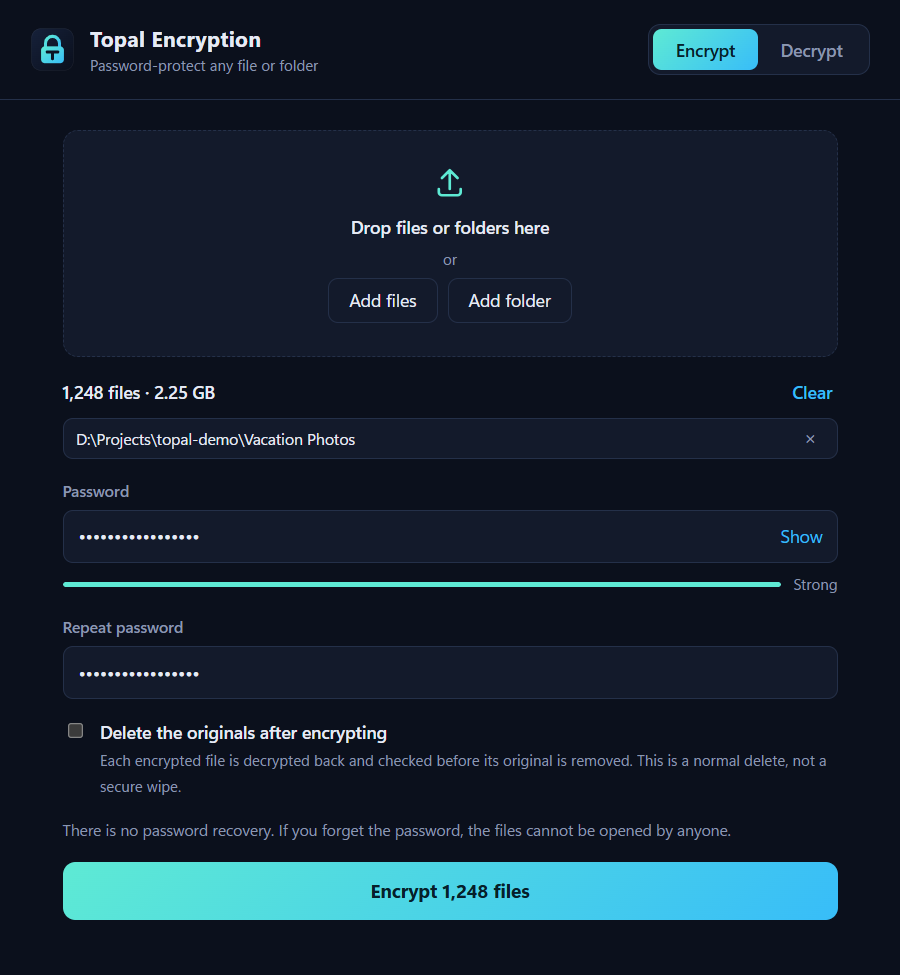
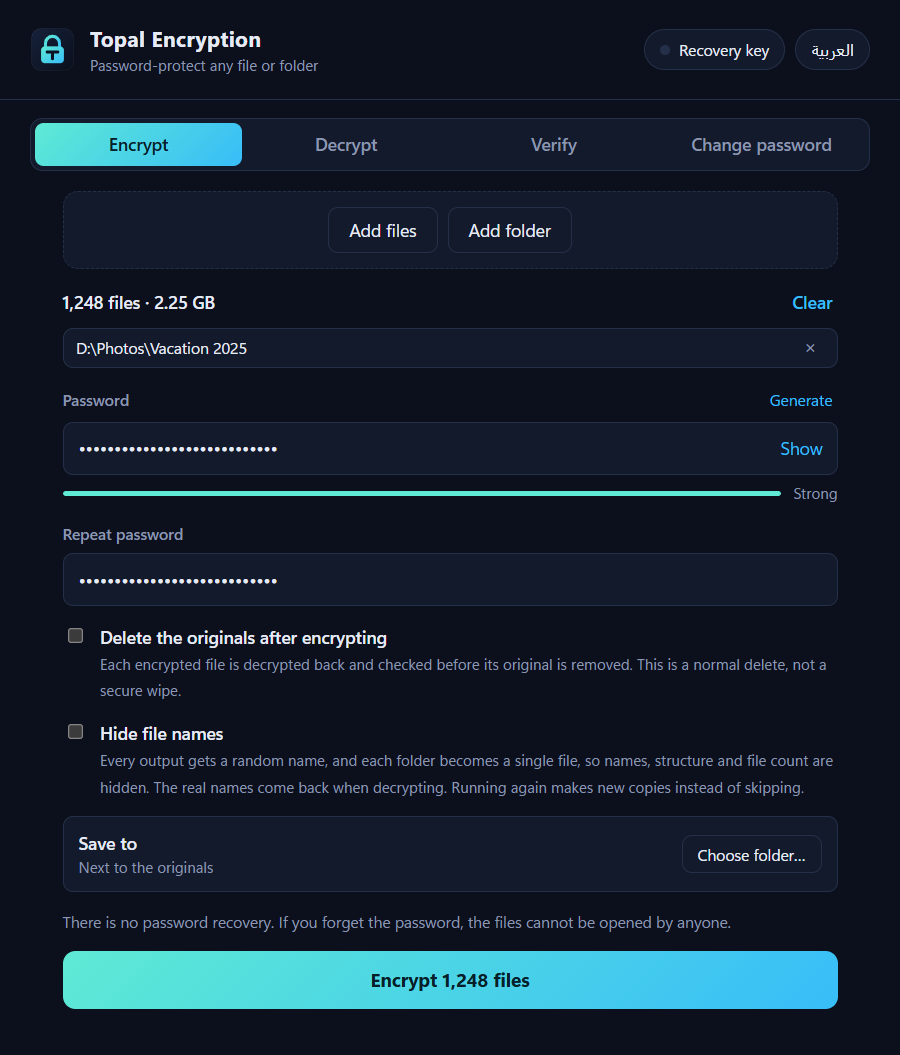
Document version 0.2.0

diff --git a/README.md b/README.md
@@ -24,7 +24,16 @@ Without the password, nobody can open the files. Not even you.
 - **Safe to interrupt.** Each output is written to a temporary file and renamed into place only when complete. Cancel, crash or power loss never leaves a half-written file, and running again picks up where it stopped.
 - **Your originals stay** unless you tick the box. If you do, each encrypted file is decrypted back and checked before its original is removed.
 - **Tamper-evident.** A flipped bit, a truncated file or a swapped block is detected and reported instead of producing garbage.
-- **Small.** The installer is about 2 MB. No account, no network access, no telemetry.
+- **Hide file names.** Optionally give every output a random name and pack each folder into a single file, so names, folder structure and file count are encrypted too. The real names come back when decrypting.
+- **Rename freely.** The original name is stored inside the encrypted file, so `a1.topal` still decrypts to `photo.jpg`.
+- **Recovery key.** An optional second key, shown once for you to print, that opens your files if you forget the password.
+- **Change the password in seconds.** Only the small header of each file is rewritten, not the content, even for a 50 GB file.
+- **Verify.** Check that a backup still opens and is undamaged, without writing anything.
+- **Save anywhere.** Write the results next to the originals or into another folder or drive, keeping the folder structure.
+- **Passphrase generator.** One click for a strong passphrase made of six common words.
+- **Explorer right-click menu.** The installer adds *Encrypt with Topal Encryption* to files and folders; double-clicking a `.topal` file opens it for decryption.
+- **English and Arabic** interface, switchable at any time.
+- **Small.** The installer is a few megabytes. No account, no network access, no telemetry.
 
 ## Download
 
@@ -44,11 +53,16 @@ Windows 10 and 11.
 
 ### Desktop app
 
-1. Choose **Encrypt** or **Decrypt**.
+1. Choose **Encrypt**, **Decrypt**, **Verify** or **Change password**.
 2. Drop files or folders onto the window (or use **Add files** / **Add folder**).
 3. Type the password and press the button.
 
 Encrypting `photo.jpg` creates `photo.jpg.topal` next to it. Decrypting does the reverse.
+
+Options when encrypting: delete the originals once each encrypted file has been checked,
+hide file names, and choose another folder for the results. The **Recovery key** button in
+the header creates or turns off the recovery key. With the installer, you can also
+right-click files or folders in Explorer (on Windows 11, under *Show more options*).
 
 ### Command line
 
@@ -56,15 +70,35 @@ Encrypting `photo.jpg` creates `photo.jpg.topal` next to it. Decrypting does the
 topal-cli encrypt "D:\Vacation Photos"
 topal-cli decrypt "D:\Vacation Photos"
 topal-cli encrypt report.pdf video.mkv --delete-source
+topal-cli encrypt "D:\Private" --hide-names --output "E:\Backup"
+topal-cli verify "E:\Backup"
+topal-cli change-password "E:\Backup"
+topal-cli decrypt "E:\Backup" --recovery-key
+topal-cli recovery create
+topal-cli passphrase
 ```
+
+| Command | What it does |
+|---|---|
+| `encrypt` | Encrypt files, or every file inside folders |
+| `decrypt` | Decrypt `.topal` files, or every `.topal` file inside folders |
+| `verify` | Check that files open with the password and are undamaged; writes nothing |
+| `change-password` | Give files a new password without re-encrypting their content |
+| `recovery create`, `status`, `disable` | Manage the recovery key |
+| `passphrase` | Print a random passphrase |
 
 | Option | Meaning |
 |---|---|
 | `--delete-source` | Delete each source once its output is written and verified |
-| `--force` | Overwrite outputs that already exist instead of skipping them |
+| `--force` | Overwrite output files that already exist instead of skipping them |
+| `-o, --output <DIR>` | Write outputs to this folder, keeping the folder structure |
+| `--hide-names` | Random output names, and each folder packed into a single file |
+| `--no-recovery` | Do not add the recovery key to these files |
+| `--recovery-key` | Open files with the recovery key instead of the password |
 | `-j, --jobs <N>` | Files processed in parallel (default: all CPU cores) |
 
-The password is prompted for without echo. For scripts, set `TOPAL_PASSWORD` instead.
+Secrets are prompted for without echo. For scripts, set `TOPAL_PASSWORD`,
+`TOPAL_NEW_PASSWORD` or `TOPAL_RECOVERY_KEY` instead.
 
 ## How it works
 
@@ -76,6 +110,7 @@ Topal Encryption invents no cryptography. It combines standard, well-studied pri
 | Password → key | **Argon2id**, 256 MiB, 3 passes, 4 lanes, random 16-byte salt |
 | Key wrapping and content | **XChaCha20-Poly1305** (256-bit key, authenticated) |
 | Large files | **STREAM** construction: 1 MiB chunks, each bound to its position |
+| Recovery key | **X25519** key agreement, **HKDF-SHA256**, then XChaCha20-Poly1305 |
 
 ```
 password ──Argon2id──▶ key-encryption key ──unwraps──▶ random per-file key ──▶ file content
@@ -86,36 +121,59 @@ password ──Argon2id──▶ key-encryption key ──unwraps──▶ rando
 - Every file gets its own random 256-bit key. The password-derived key only wraps that key.
 - A batch shares one salt, so 10,000 files cost one key derivation rather than 10,000. Each
   `.topal` file is still fully self-contained and decrypts on its own.
+- Changing the password re-wraps the per-file key under the new password. The content, which
+  is encrypted with the per-file key, is not touched.
+- A recovery key is an X25519 key pair. Only the public half stays on the PC, so encrypting
+  never needs the secret half; each file key is additionally sealed to that public key. The
+  secret half is shown once and never stored by the app.
 
-### File format (version 1)
+### File format (version 2)
 
 All integers are little-endian.
 
 | Offset | Size | Field |
 |---:|---:|---|
 | 0 | 5 | Magic `TOPAL` |
-| 5 | 1 | Format version (`1`) |
-| 6 | 12 | Argon2id memory (KiB), passes, lanes |
-| 18 | 16 | Argon2id salt |
-| 34 | 4 | Plaintext chunk size |
-| 38 | 19 | Stream nonce prefix |
-| 57 | 24 | Key-wrap nonce |
-| 81 | 48 | Per-file key, wrapped (32 bytes + 16-byte tag) |
-| 129 | … | Encrypted chunks, each chunk size + 16-byte tag |
+| 5 | 1 | Format version (`2`) |
+| 6 | 1 | Flags: `1` folder container, `2` has a recovery slot |
+| 7 | 12 | Argon2id memory (KiB), passes, lanes |
+| 19 | 16 | Argon2id salt |
+| 35 | 4 | Plaintext chunk size |
+| 39 | 19 | Stream nonce prefix |
+| 58 | 24 | Key-wrap nonce |
+| 82 | 48 | Per-file key, wrapped with the password key (32 bytes + 16-byte tag) |
+| 130 | 32 | Recovery slot: ephemeral X25519 public key (only with flag `2`) |
+| 162 | 48 | Recovery slot: per-file key, wrapped for the recovery key (only with flag `2`) |
+| … | … | Encrypted chunks, each chunk size + 16-byte tag |
 
-Bytes 0–56 are authenticated as associated data of the wrapped key, so the header cannot
-be altered without the file being rejected.
+Bytes 0–57 are authenticated as associated data of the password-wrapped key, so the header
+cannot be altered without the file being rejected. The recovery slot authenticates the same
+fields except the password salt and costs, which is what allows a password change without
+the recovery key.
+
+The encrypted stream starts with the original name (2-byte length, then UTF-8), followed by
+the file content. For a folder container it is followed by a sequence of entries instead:
+kind (`1` file, `2` folder, `0` end), 2-byte path length, relative path, and for files an
+8-byte size and the content. Nothing is compressed. When unpacking, every path component is
+checked so that a crafted file cannot write outside its own folder.
+
+Version 1 files (no flags byte, no recorded name, no recovery slot) are still read.
 
 ## Security notes
 
 Please read these before trusting Topal Encryption with data you cannot afford to lose.
 
-- **There is no password recovery.** A forgotten password means the data is gone. That is
-  the point of the design, not a missing feature.
+- **There is no password recovery unless you create a recovery key first.** Without one, a
+  forgotten password means the data is gone. That is the point of the design.
+- **A recovery key is as powerful as the password.** Anyone who has it can open every file
+  encrypted while it was on. Keep it on paper or in a password manager, away from the files.
+- **Changing a password does not reach old copies.** A backup made before the change still
+  opens with the old password.
 - **Your password is the weak link.** The encryption is only as strong as the password.
   Use a long passphrase.
-- **File names, sizes and folder structure are not hidden.** `tax-2025.pdf` becomes
-  `tax-2025.pdf.topal`. Only the content is encrypted.
+- **File names and folder structure are visible unless you tick *Hide file names*.** By
+  default `tax-2025.pdf` becomes `tax-2025.pdf.topal`. Sizes are never hidden: an encrypted
+  file is about as large as what it holds.
 - **Deleting originals is not a secure wipe.** It is a normal delete; on SSDs in particular,
   deleted data can remain recoverable. For data that must not be recoverable, use full-disk
   encryption (BitLocker) underneath.
